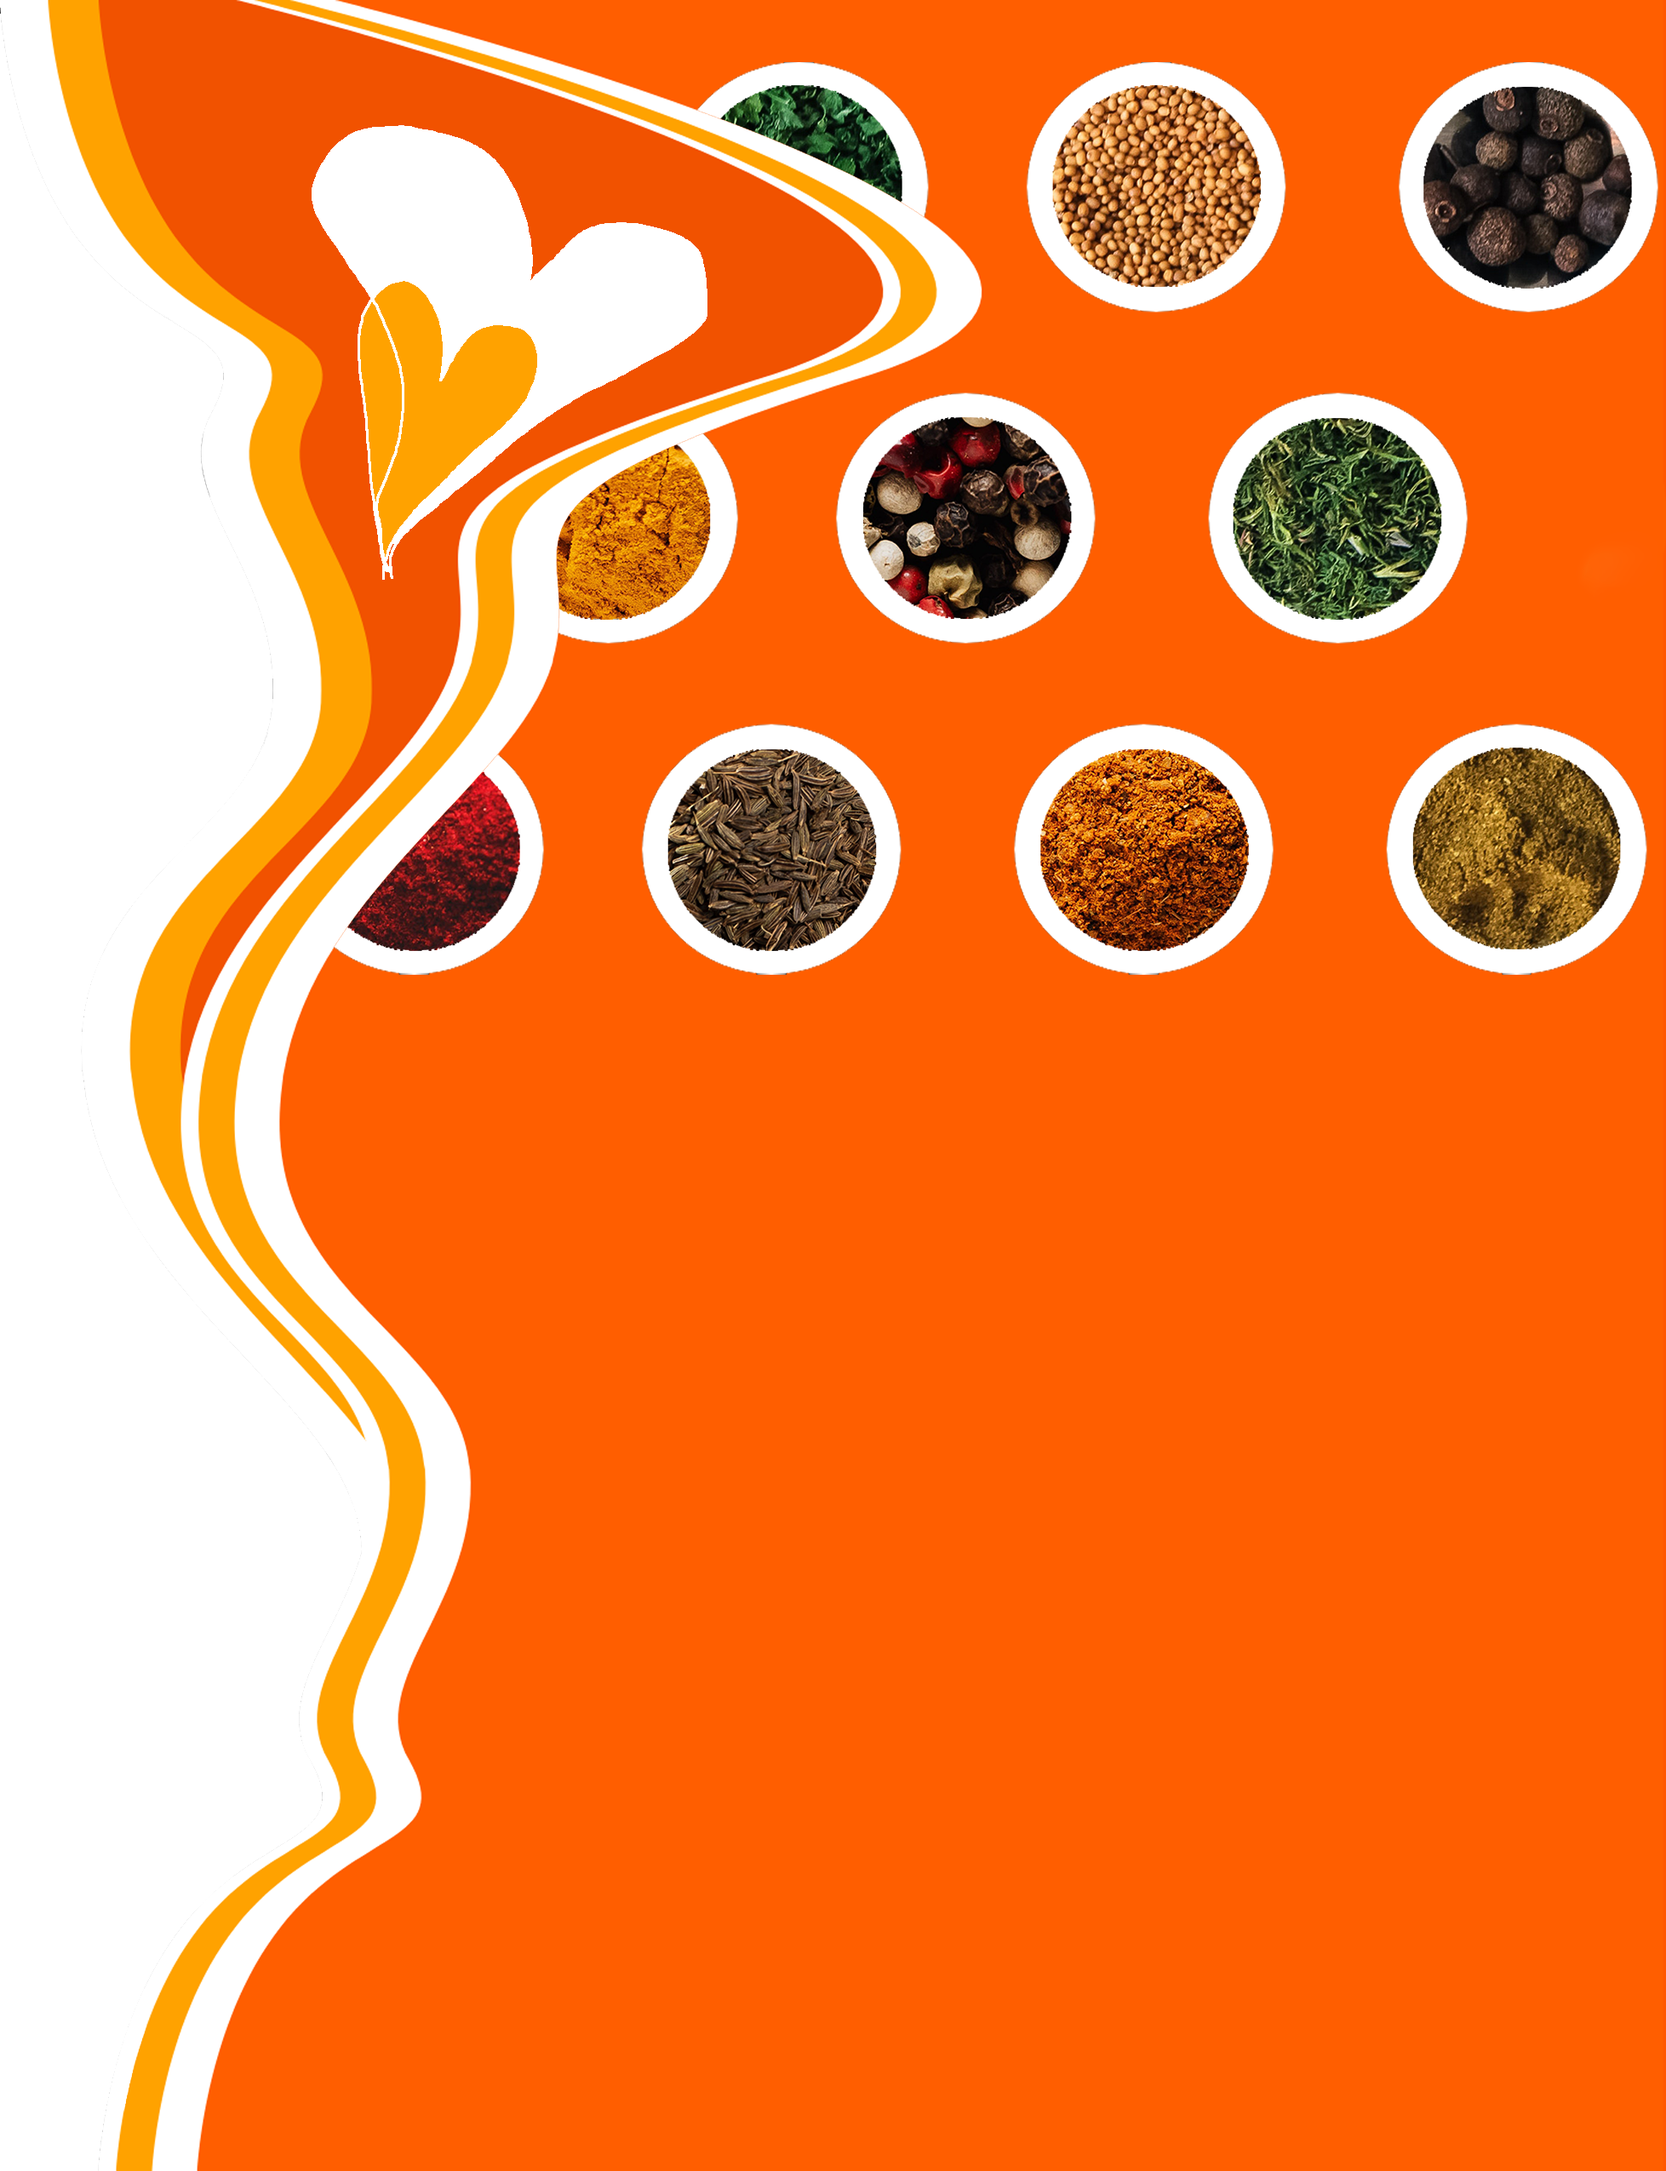
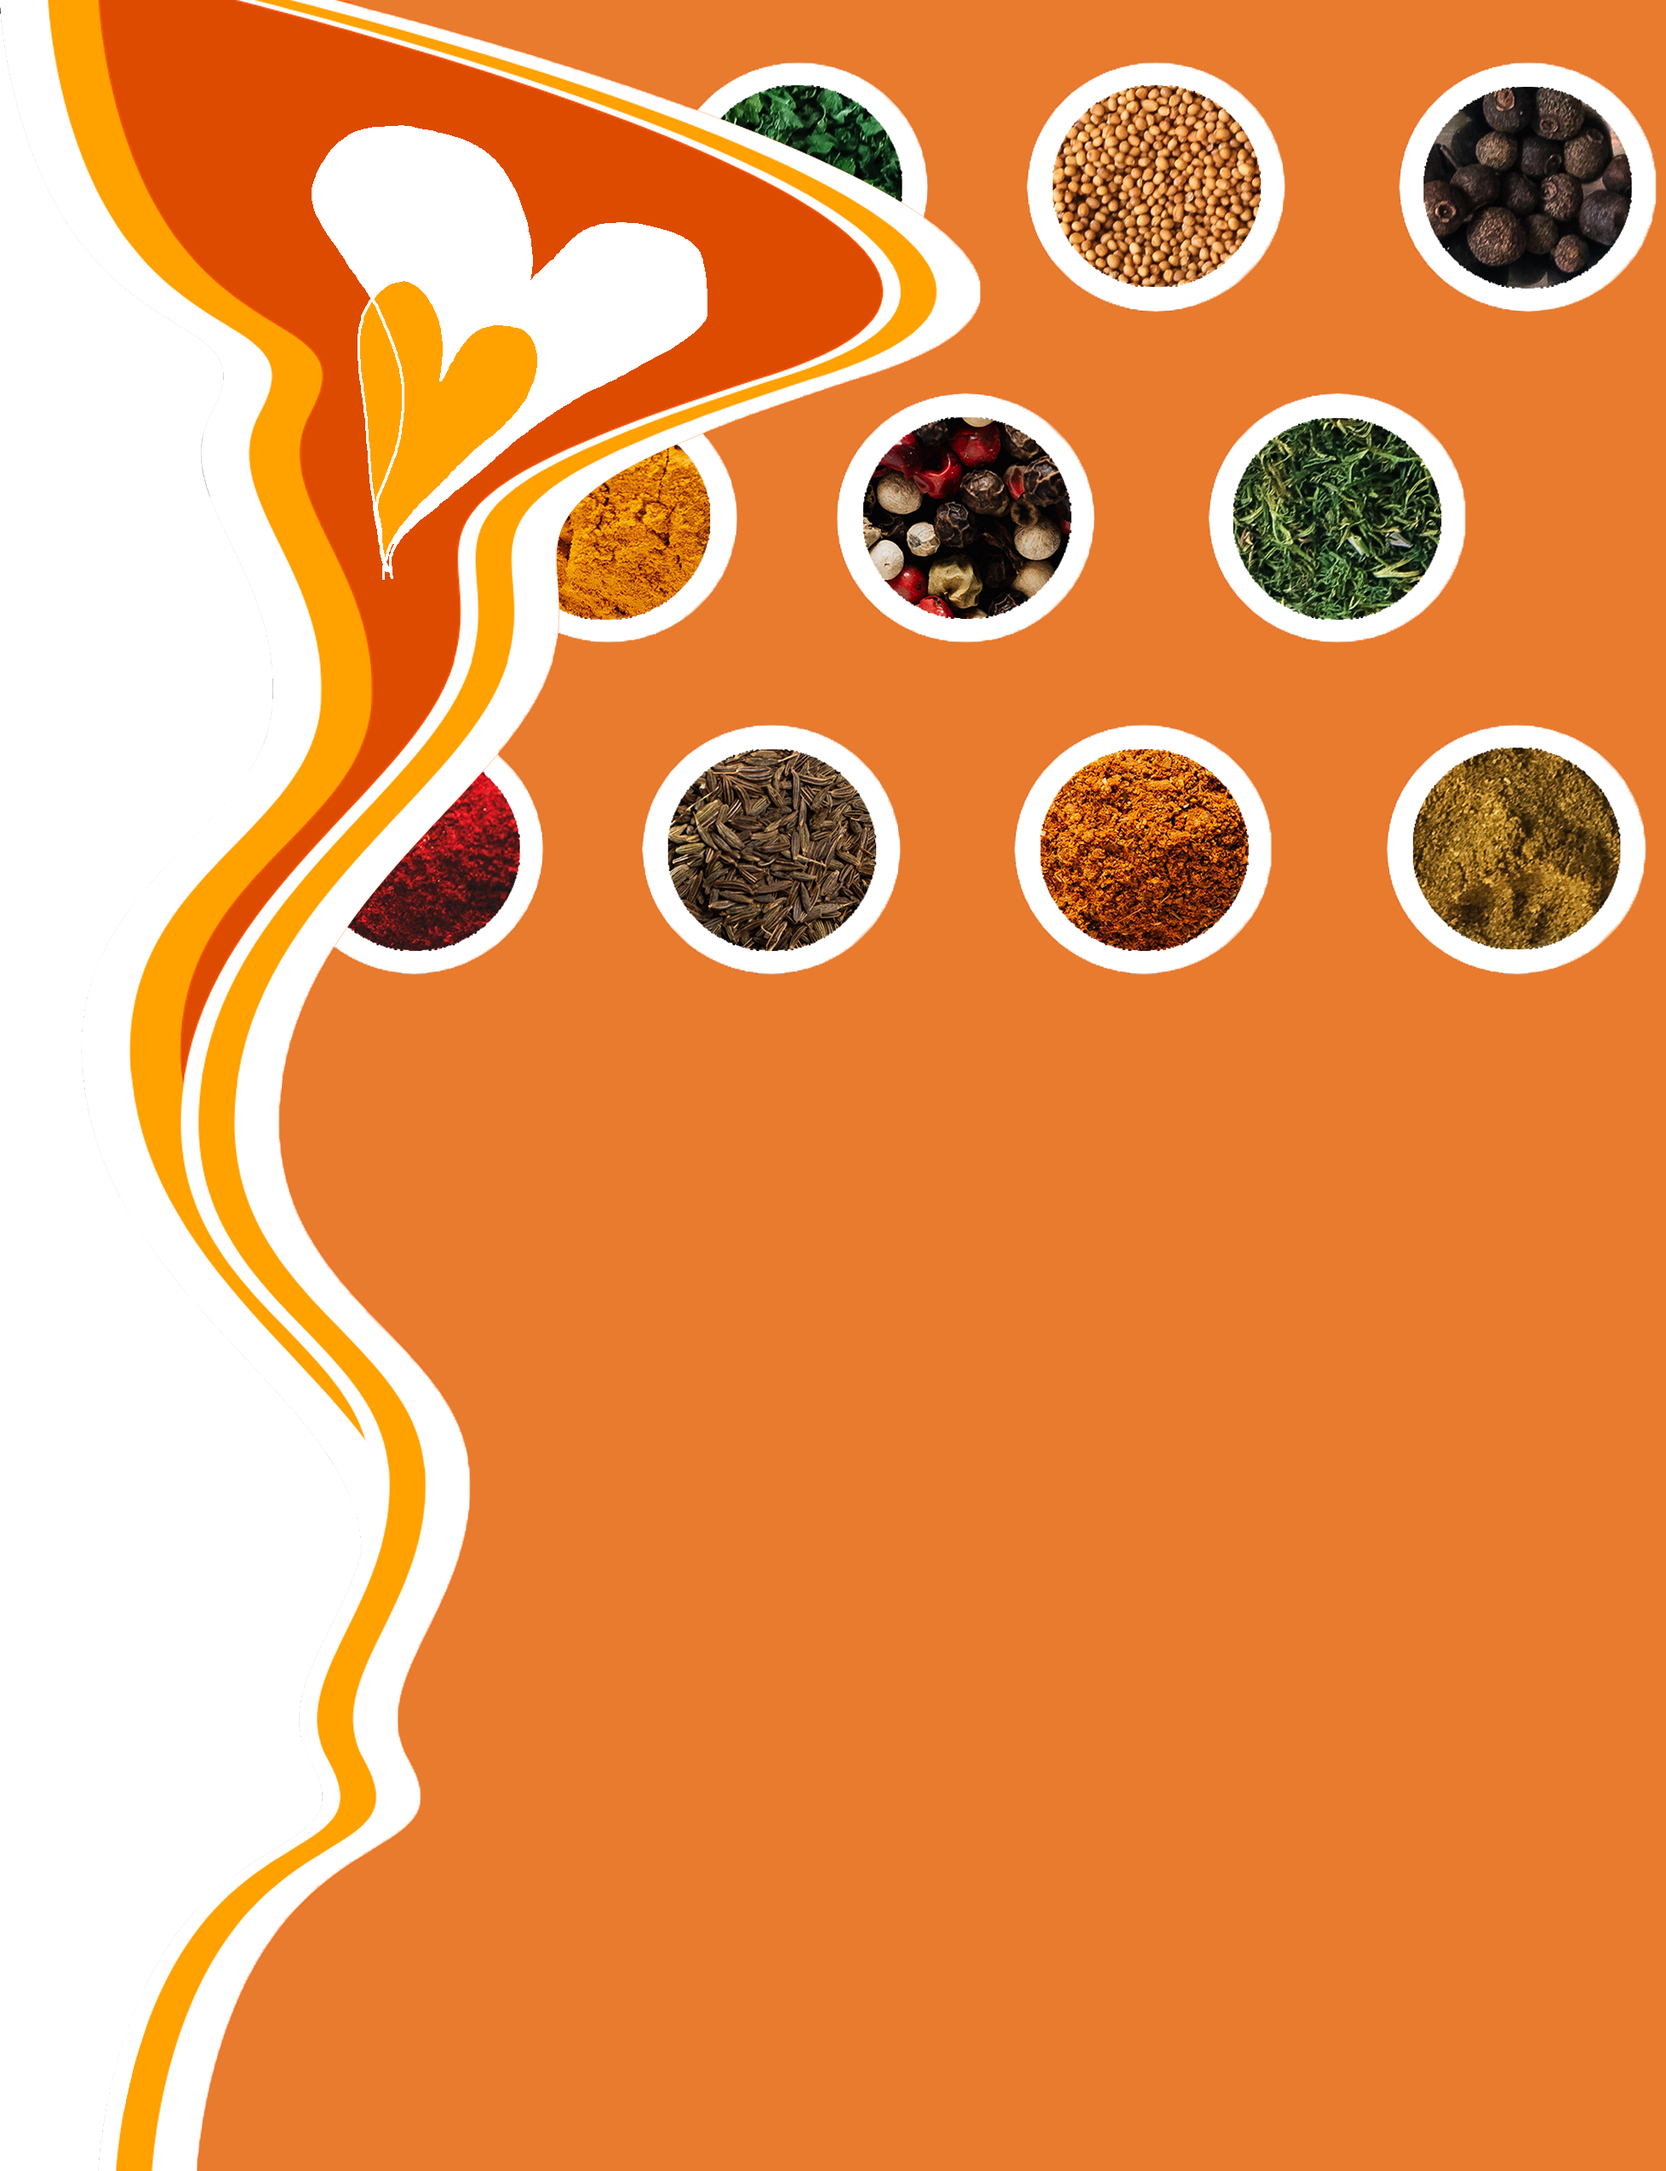
Index Update

diff --git a/index.html b/index.html
@@ -282,8 +282,8 @@
         </div>
         <div class="d-body">
             <div class="d-sect-sinfo">
-                <div class="d-sect-spacer"></div>
-                <div class="d-sect-sinfo-txt">
+                <div class="d-sect-txt d-sect-txt-info">
+                    <div class="txt-sect">
                         <p>
                             <span class="light">GLUTEN FREE</span><br/>
                            LOW SUGAR<br/>
@@ -292,29 +292,43 @@
                         <h1>Made With Love</h1>
                         <small>and, y'know, natural ingredients too</small>
                         <a href="sauce.html"><button class="btn-bod" id="btn-sinfo">SAUCE INFO</button></a>
+                    </div>
                 </div>
                 <div class="d-sect-ingredpicture">
-                    <!--<img src="media/index/spices.png" alt="picture background featuring spices">-->
+                    <div class="d-sect-ingredpicture-pic"> <img src="media/index/spices2.png" alt="picture background featuring spices"></div>
                 </div>
             </div>
 
             <div class="d-sect-recipes">
-                <div class="d-sect-recipepicture"> <!--<img id="recipe-img" src="media/index/recipe.png" alt="barbeque chicken">--></div>
-                <div class="d-sect-recipes-txt">
-
-                    <h1>Great With Everything</h1>
-                    <p>
-                        unlimited possibilities,
-                        simple wholesome recipes
-                        anybody can make;
-                        from dips to dressings,
-                        marinade to barbeque
-                        and everything in between.
-                    </p>
-
-                    <a href="recipes.html"><button class="btn-bod" id="btn-recipes">SEE RECIPES</button></a>
+                <div class="d-sect-txt-recipe-pic">
+                    <div class="d-sect-recipepicture" id="rec-pic-small"></div>
+                    <div class="d-sect-recipepicture" id="rec-pic-large"><img id="recipe-img" src="media/index/recipe.png" alt="barbeque chicken"></div>
+                    <div class="d-sect-recipepicture" id="rec-pic-medium"><img id="recipe-img-2" src="media/index/recipe.png" alt="barbeque chicken"></div>
                 </div>
-                <div class="d-sect-spacer"> </div>
+                <div class="d-sect-txt d-sect-txt-recipe">
+                    <div class="txt-sect txt-sect-recipe">
+                        <h1>We've Got Ribs, Sauce, and ... Pontoons?</h1>
+                        <p>
+                            Yes! We have pontoons and other watercrafts such as WaveRunners, kayaks,
+                            and more all on Powers lake in Powers Lake, WI (15 minutes away from Lake Geneva)!
+                            You can not only rent various watercrafts, but rent pier spaces and own a pontoon timeshare as well.
+                        </p>
+                        <a href="boats.html"><button class="btn-bod" id="btn-recipes">SEE SERVICES</button></a>
+
+                        <!--<h1>Great With Everything</h1>
+                        <p>
+                            unlimited possibilities,
+                            simple wholesome recipes
+                            anybody can make;
+                            from dips to dressings,
+                            marinade to barbeque
+                            and everything in between.
+                        </p>
+
+                        <a href="recipes.html"><button class="btn-bod" id="btn-recipes">SEE RECIPES</button></a>-->
+                    </div>
+                </div>
+                <!--<div class="d-sect-spacer"></div>-->
             </div>
         </div>
     </div>

diff --git a/css/index.css b/css/index.css
@@ -69,7 +69,7 @@ html{
      font-weight: 800;
  }
  small{
-     font-size: 12px;
+     font-size: 14px;
      letter-spacing: 1px;
  }
 main{
@@ -97,27 +97,30 @@ main{
      flex-direction: column;
      flex-wrap: nowrap;
 
+
+     min-width: 1008px;
      width: 100%;
      background-color: palegreen;
  }
  .d-sect-sinfo{
-     width: 100% !important;
+     width: 100%;
      height: 400px;
-     background-color: #574f4d;
 
      display: flex;
      flex-direction: row;
      color: white;
  }
- .d-sect-sinfo-txt{
+ .d-sect-txt{
      width: 50%;
-     height: 400px;
-     background-color: #d7c6be;
+     min-height: 400px;
+     min-width: 700px;
+     display: grid;
+     grid-template-areas: 'space text space';
  }
- .d-sect-sinfo-txt p{
+ .d-sect-txt p{
      text-align: left;
  }
- .d-sect-sinfo-txt h1{
+ .d-sect-txt h1{
      padding-top: 5px;
      font-family: 'Coustard', serif;
      color: #1B1616;
@@ -126,13 +129,38 @@ main{
      text-align: left;
      margin: 0;
  }
+ .txt-sect{
+     min-width: 300px;
+     max-width: 400px;
+     grid-area: text;
+     position: relative;
+     z-index: 20;
+ }
+ .d-sect-txt-info{
+     background-color: #332929;
+ }
+
  .d-sect-ingredpicture{
      width: 50%;
      height: 400px;
+     overflow: visible;
+     background-color: #E87B2E;
+
  }
- .d-sect-ingredpicture img{
-     height: 800px;
-     overflow-x: visible;
+ .d-sect-ingredpicture-pic{
+     position: relative;
+     width: 400px;
+     height: 1300px;
+     overflow: visible;
+     z-index: 0;
+ }
+ .d-sect-ingredpicture-pic img{
+     width: 100%;
+     height: 100%;
+     object-fit: cover;
+     overflow: visible;
+
+
  }
  .d-sect-spacer{
      min-width: 0;
@@ -144,31 +172,65 @@ main{
  /*---------------------------------------------------------------*/
  /*recipe section*/
  .d-sect-recipes{
-     height: 400px;
-     width: 100% !important;
+     min-height: 400px;
+     height: 100%;
+     max-height: 800px;
+     width: 100%;
      background-color: white;
 
      display: flex;
      flex-direction: row;
  }
- .d-sect-recipes-txt{
-     width: 50%;
-     height: 400px;
+ .d-sect-txt-recipe{
+     background-color: #E87B2E;
  }
- .d-sect-recipes-txt *{
-
- }
- .d-sect-recipes-txt h1{
+ .d-sect-txt-recipe h1{
      font-family: 'Coustard', serif;
-     text-shadow: 2px 0 #DC4B00, -2px 0 #DC4B00, 0 3px #332929, 0 -2px #fff,
-     1px 1px #fff, -1px -1px #fff, 1px -1px black, -1px 1px black;
+     color: #1B1616;
+     text-shadow: 2px 0 #fff, -2px 0 #fff, 0 2px #fff, 0 -2px #fff,
+     1px 1px #fff, -1px -1px #fff, 1px -1px #fff, -1px 1px #fff;
+     text-align: left;
+     margin: 0;
+     font-size: 25px;
+ }
+ .d-sect-txt-recipe-pic{
+     width: 50%;
+     background-image: linear-gradient( #332929, #1B1616);
+     display: grid;
+     grid-template-areas: 'space text space';
  }
  .d-sect-recipepicture{
-     width: 50%;
-     height: 400px;
+     grid-area: text;
+     border-radius: 50%;
+     overflow: clip;
+     margin: 100px;
+ }
+ #rec-pic-small{
+     position: relative;
+     background-color: #E87B2E;
+     transform: rotateZ(30deg);
+     top: 0;
+     left: -50px;
+     width: 650px;
+     height: 600px;
+     z-index: 0;
+ }
+ #rec-pic-medium{
+     position: relative;
+     left: 350px;
+     top: 250px;
+     width: 350px;
+     height: 350px;
+     z-index: 2;
+ }
+ #rec-pic-large{
+     width: 500px;
+     height: 500px;
+     z-index: 1;
  }
  #recipe-img{
-
+     object-fit: cover;
+     width: 100%;
  }
 
  /*buttons*/

diff --git a/css/footer.css b/css/footer.css
@@ -123,9 +123,14 @@ footer li, footer *{
 }
 .madein-txt, .policies{
     padding-top: 35px;
-    line-height: 37px;
     font-weight: 200;
     letter-spacing: 1px;
+}
+.madein-txt{
+    line-height: 25px;
+}
+.policies{
+    line-height: 37px;
 }
 .contact-social-txt p{
     letter-spacing: 1px;

diff --git a/css/nav.css b/css/nav.css
@@ -341,7 +341,7 @@ header{
     letter-spacing: 1px;
 }
 .lnav-right li, .lnav-right a:hover{
-    text-decoration: underline;
+    text-decoration: none;
     color:#E87B2E;
     transition: 0.4s;
 }

diff --git a/css/policy.css b/css/policy.css
@@ -61,7 +61,8 @@ body{
 }
 main{
     vertical-align: center;
-    margin: 20px 30px;
+    margin: 90px 30px 20px 30px;
+    padding-bottom: 50px;
 }
 main p{
     text-align: left;
